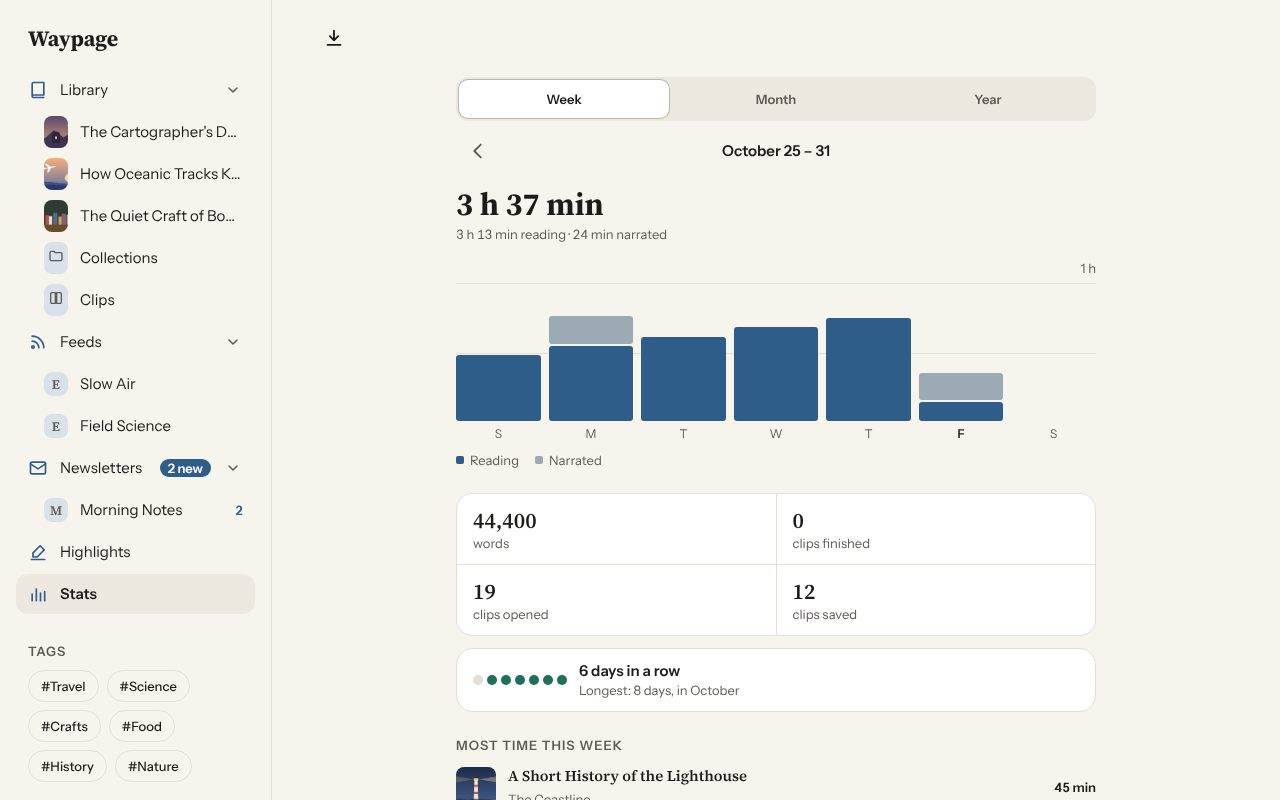
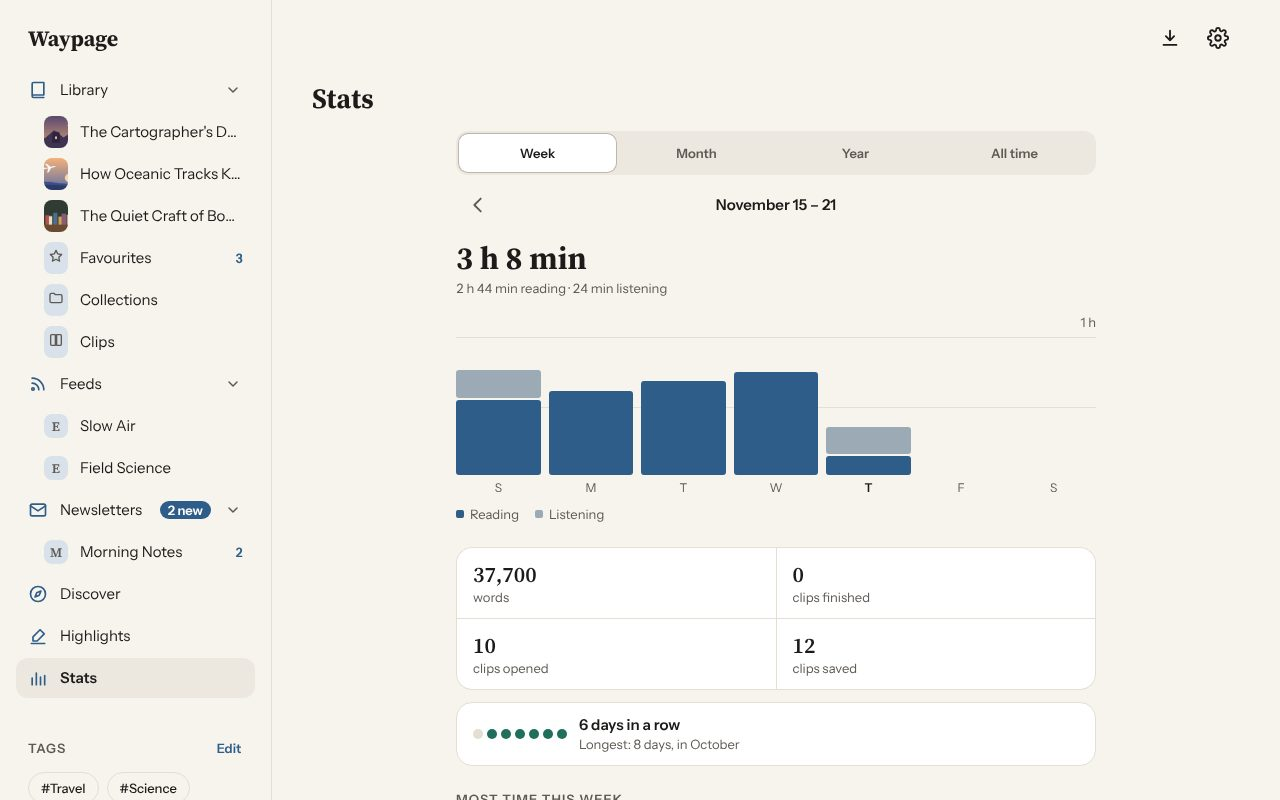
Every screen at every size: fixes from a full audit (#372)
* Every screen at every size: fixes from a full audit

An audit of about 70 screens, sheets and dialogs at 320 and 390 px,
a phone on its side (844x390), a tablet both ways, and 1024, 1280 and
1920 px found these:

- Picking bar at 320 px: the labels were nowrap in equal fifths, so
  Collection ran into Mark read. Buttons now size to their words.
- Draw bar at 320 px: the tools row was 14 px too wide and, being
  centred, lost the pen and Done off both ends. Tighter Done and edge
  under 360 px, and safe center.
- App lock on a phone's side: the centred column was taller than the
  screen, so the title was off the top and couldn't be scrolled to.
  Title, dots and Forgot now sit beside the keys there, and the view
  uses safe center.
- Stats and Anki had no name at the top from 700 px: they were left out
  of the list of places that show their title on a big screen.
- In Hebrew, words written straight into index.html without data-t
  stayed English (picking bar, Back to where you were, Read next,
  Shortcuts, Offline). i18n.test.js now checks the markup.
- The audit also caught "REMOTE_AUDIO is not defined" at start with
  Audiobookshelf on: extension scripts are added as script tags, which
  can run before the shell files still being parsed, so app-abs.js ran
  before app-listen.js. They now load at DOMContentLoaded.

Claude-Session: https://claude.ai/code/session_01CFeKrjQvtrqTncyWyvDABb

* CONTRIBUTING: three rules from #372
[…]

diff --git a/index.html b/index.html
@@ -59,7 +59,7 @@
       <div class="lib-tags" id="libTags" role="toolbar" aria-label="Tags" hidden data-t-attr="aria-label"></div>
     </header>
 
-    <main class="library" id="library" aria-live="polite"><div class="lib-loading wide" data-key="loading" role="status"><span class="spinner" aria-hidden="true"></span>Opening your library</div></main>
+    <main class="library" id="library" aria-live="polite"><div class="lib-loading wide" data-key="loading" role="status"><span class="spinner" aria-hidden="true"></span><span data-t>Opening your library</span></div></main>
     <main class="feeds" id="feeds" hidden></main>
     <main class="feeds newsletters" id="newsletters" hidden></main>
     <main class="highlights" id="highlights" hidden></main>
@@ -120,7 +120,7 @@
       </div>
       <div class="reader-actions">
         <span class="pill" id="offlinePill" hidden>
-          <svg width="14" height="14" viewBox="0 0 24 24" fill="none" stroke="currentColor" stroke-width="2" stroke-linecap="round"><path d="M2 12h20M12 2l3 10-3 10"></path></svg>Offline
+          <svg width="14" height="14" viewBox="0 0 24 24" fill="none" stroke="currentColor" stroke-width="2" stroke-linecap="round"><path d="M2 12h20M12 2l3 10-3 10"></path></svg><span data-t>Offline</span>
         </span>
         <button class="icon-btn aloud-btn" id="readerAloud" type="button" aria-label="Narrate" title="Narrate (S)" aria-pressed="false" hidden data-t-attr="aria-label,title">
           <svg width="22" height="22" viewBox="0 0 24 24" fill="none" stroke="currentColor" stroke-width="2" stroke-linecap="round" stroke-linejoin="round" aria-hidden="true"><path d="M11 5L6 9H3v6h3l5 4V5z"></path><path d="M15.5 8.5a5 5 0 0 1 0 7M18.5 5.5a9 9 0 0 1 0 13"></path></svg>
@@ -186,7 +186,7 @@
     </div>
     <div class="read-foot" id="readFoot">
       <button class="jump-back" id="jumpBack" type="button" hidden>
-        <svg width="18" height="18" viewBox="0 0 24 24" fill="none" stroke="currentColor" stroke-width="2" stroke-linecap="round" stroke-linejoin="round" aria-hidden="true"><path d="M9 14l-4-4 4-4"></path><path d="M5 10h9a5 5 0 0 1 0 10h-3"></path></svg>Back to where you were
+        <svg width="18" height="18" viewBox="0 0 24 24" fill="none" stroke="currentColor" stroke-width="2" stroke-linecap="round" stroke-linejoin="round" aria-hidden="true"><path d="M9 14l-4-4 4-4"></path><path d="M5 10h9a5 5 0 0 1 0 10h-3"></path></svg><span data-t>Back to where you were</span>
       </button>
       <div class="skim-bar" id="skimBar" role="group" aria-label="Skim" hidden data-t-attr="aria-label">
         <div class="skim-head"><span class="skim-part" id="skimPart" dir="auto"></span></div>
@@ -219,10 +219,10 @@
           </button>
         </div>
         <button class="aloud-read-next" id="aloudReadNext" type="button" hidden>
-          <svg width="18" height="18" viewBox="0 0 24 24" fill="none" stroke="currentColor" stroke-width="2" stroke-linecap="round" stroke-linejoin="round" aria-hidden="true"><path d="M11 5L6 9H3v6h3l5 4V5z"></path><path d="M15.5 8.5a5 5 0 0 1 0 7"></path></svg>Read next
+          <svg width="18" height="18" viewBox="0 0 24 24" fill="none" stroke="currentColor" stroke-width="2" stroke-linecap="round" stroke-linejoin="round" aria-hidden="true"><path d="M11 5L6 9H3v6h3l5 4V5z"></path><path d="M15.5 8.5a5 5 0 0 1 0 7"></path></svg><span data-t>Read next</span>
         </button>
         <span class="read-time" id="readLeft" aria-hidden="true"></span>
-        <button class="read-keys" id="readKeys" type="button"><kbd>?</kbd>Shortcuts</button>
+        <button class="read-keys" id="readKeys" type="button"><kbd>?</kbd><span data-t>Shortcuts</span></button>
       </div>
       <div class="read-progress" id="readProgress" aria-hidden="true"><span></span><span class="read-ticks" id="readTicks"></span></div>
     </div>
@@ -362,13 +362,13 @@
     </button>
   </div>
   <div class="select-bar" id="selectBar" role="toolbar" aria-label="Selected clips" hidden data-t-attr="aria-label">
-    <button class="select-act" id="selTags" type="button"><svg width="22" height="22" viewBox="0 0 24 24" fill="none" stroke="currentColor" stroke-width="2" stroke-linecap="round" stroke-linejoin="round" aria-hidden="true"><path d="M3 12V4h8l9 9-8 8z"></path><circle cx="7.5" cy="8.5" r="1.2"></circle></svg>Tags</button>
-    <button class="select-act" id="selFolder" type="button"><svg width="22" height="22" viewBox="0 0 24 24" fill="none" stroke="currentColor" stroke-width="2" stroke-linecap="round" stroke-linejoin="round" aria-hidden="true"><path d="M3 7a2 2 0 0 1 2-2h4l2 2h8a2 2 0 0 1 2 2v8a2 2 0 0 1-2 2H5a2 2 0 0 1-2-2z"></path></svg>Collection</button>
+    <button class="select-act" id="selTags" type="button"><svg width="22" height="22" viewBox="0 0 24 24" fill="none" stroke="currentColor" stroke-width="2" stroke-linecap="round" stroke-linejoin="round" aria-hidden="true"><path d="M3 12V4h8l9 9-8 8z"></path><circle cx="7.5" cy="8.5" r="1.2"></circle></svg><span data-t>Tags</span></button>
+    <button class="select-act" id="selFolder" type="button"><svg width="22" height="22" viewBox="0 0 24 24" fill="none" stroke="currentColor" stroke-width="2" stroke-linecap="round" stroke-linejoin="round" aria-hidden="true"><path d="M3 7a2 2 0 0 1 2-2h4l2 2h8a2 2 0 0 1 2 2v8a2 2 0 0 1-2 2H5a2 2 0 0 1-2-2z"></path></svg><span data-t>Collection</span></button>
     <button class="select-act" id="selRead" type="button"><svg width="22" height="22" viewBox="0 0 24 24" fill="none" stroke="currentColor" stroke-width="2" stroke-linecap="round" stroke-linejoin="round" aria-hidden="true"><path d="M5 12.5l4.5 4.5L19 7.5"></path></svg><span id="selReadLabel" data-t>Mark read</span></button>
-    <button class="select-act" id="selEdit" type="button"><svg width="22" height="22" viewBox="0 0 24 24" fill="none" stroke="currentColor" stroke-width="2" stroke-linecap="round" stroke-linejoin="round" aria-hidden="true"><path d="M4 20h4L19 9a2.8 2.8 0 0 0-4-4L4 16z"></path><path d="M13.5 6.5l4 4"></path></svg>Edit</button>
-    <button class="select-act post-only" id="selOpen" type="button"><svg width="22" height="22" viewBox="0 0 24 24" fill="none" stroke="currentColor" stroke-width="2" stroke-linecap="round" stroke-linejoin="round" aria-hidden="true"><path d="M14 4h6v6M20 4l-9 9M18 14v5a1 1 0 0 1-1 1H5a1 1 0 0 1-1-1V7a1 1 0 0 1 1-1h5"></path></svg>Open</button>
-    <button class="select-act post-only" id="selSave" type="button"><svg width="22" height="22" viewBox="0 0 24 24" fill="none" stroke="currentColor" stroke-width="2" stroke-linecap="round" stroke-linejoin="round" aria-hidden="true"><path d="M12 5v14M5 12h14"></path></svg>Save</button>
-    <button class="select-act danger" id="selDelete" type="button"><svg width="22" height="22" viewBox="0 0 24 24" fill="none" stroke="currentColor" stroke-width="2" stroke-linecap="round" stroke-linejoin="round" aria-hidden="true"><path d="M4 7h16M10 11v6M14 11v6M6 7l1 13h10l1-13M9 7V4h6v3"></path></svg>Delete</button>
+    <button class="select-act" id="selEdit" type="button"><svg width="22" height="22" viewBox="0 0 24 24" fill="none" stroke="currentColor" stroke-width="2" stroke-linecap="round" stroke-linejoin="round" aria-hidden="true"><path d="M4 20h4L19 9a2.8 2.8 0 0 0-4-4L4 16z"></path><path d="M13.5 6.5l4 4"></path></svg><span data-t>Edit</span></button>
+    <button class="select-act post-only" id="selOpen" type="button"><svg width="22" height="22" viewBox="0 0 24 24" fill="none" stroke="currentColor" stroke-width="2" stroke-linecap="round" stroke-linejoin="round" aria-hidden="true"><path d="M14 4h6v6M20 4l-9 9M18 14v5a1 1 0 0 1-1 1H5a1 1 0 0 1-1-1V7a1 1 0 0 1 1-1h5"></path></svg><span data-t>Open</span></button>
+    <button class="select-act post-only" id="selSave" type="button"><svg width="22" height="22" viewBox="0 0 24 24" fill="none" stroke="currentColor" stroke-width="2" stroke-linecap="round" stroke-linejoin="round" aria-hidden="true"><path d="M12 5v14M5 12h14"></path></svg><span data-t>Save</span></button>
+    <button class="select-act danger" id="selDelete" type="button"><svg width="22" height="22" viewBox="0 0 24 24" fill="none" stroke="currentColor" stroke-width="2" stroke-linecap="round" stroke-linejoin="round" aria-hidden="true"><path d="M4 7h16M10 11v6M14 11v6M6 7l1 13h10l1-13M9 7V4h6v3"></path></svg><span data-t>Delete</span></button>
   </div>
   <div class="screen-catch" id="screenCatch" hidden></div>
   <p class="pane-note" id="paneNote" data-t>Pick a post to read it here</p>

diff --git a/src/styles.css b/src/styles.css
@@ -1670,7 +1670,8 @@ span.update-text { cursor: default; }
   color: var(--accent); font-weight: 600; cursor: pointer;
 }
 .select-act {
-  flex: 1; min-width: 0; max-width: 120px; min-height: 56px; white-space: nowrap;
+  flex: 1 1 auto; min-width: 0; max-width: 120px; min-height: 56px; padding: 0 2px;
+  text-align: center; hyphens: auto;
   display: flex; flex-direction: column; align-items: center; justify-content: center; gap: 2px;
   border: 0; border-radius: var(--r-md); background: transparent; color: var(--accent);
   font: 500 var(--fs-meta)/var(--lh-meta) var(--sans); cursor: pointer;
@@ -2670,8 +2671,9 @@ button.side-version { align-self: flex-start; min-height: 44px; padding-bottom: 
   .lib-head .meta { margin: 0; flex: 1; min-width: 0; }
   .lib-head .lib-tools { margin: 0 calc(-1 * var(--s-2)) 0 0; align-self: center; gap: var(--s-4); }
   .top { padding-bottom: var(--s-3); }
-  :is([data-place="feeds"], [data-place="newsletters"], [data-place="highlights"], [data-place="discover"], [data-place="calibre"], [data-place="catalogs"], [data-place="audiobookshelf"], [data-place="webdav"]) .top { display: block; }
-  :is([data-place="feeds"], [data-place="newsletters"], [data-place="highlights"], [data-place="discover"], [data-place="calibre"], [data-place="catalogs"], [data-place="audiobookshelf"], [data-place="webdav"]) :is(.top > :not(.lib-head), .lib-head > :not(.screen-title)) { display: none; }
+  /* Stats and Anki were left out, so a big screen showed them with no name. */
+  :is([data-place="feeds"], [data-place="newsletters"], [data-place="highlights"], [data-place="reading"], [data-place="discover"], [data-place="calibre"], [data-place="catalogs"], [data-place="audiobookshelf"], [data-place="webdav"], [data-place="anki"]) .top { display: block; }
+  :is([data-place="feeds"], [data-place="newsletters"], [data-place="highlights"], [data-place="reading"], [data-place="discover"], [data-place="calibre"], [data-place="catalogs"], [data-place="audiobookshelf"], [data-place="webdav"], [data-place="anki"]) :is(.top > :not(.lib-head), .lib-head > :not(.screen-title)) { display: none; }
 
   /* Two columns of clips; Continue reading, collections and section
      heads take the whole width. */
@@ -3091,6 +3093,8 @@ html.locked body > :not(.lock-view):not(script) { visibility: hidden !important;
   background: var(--bg); color: var(--ink); overflow-y: auto;
 }
 .lock-view[hidden] { display: none; }
+/* safe: taller than the screen, it scrolls from its top instead of losing it. */
+.lock-view { align-items: safe center; }
 .lock-box { display: flex; flex-direction: column; align-items: center; gap: var(--s-3); width: 100%; max-width: 20rem; text-align: center; }
 .lock-box > div { display: flex; flex-direction: column; align-items: center; gap: var(--s-3); width: 100%; }
 .lock-box > div[hidden] { display: none; }
@@ -3121,6 +3125,18 @@ html.locked body > :not(.lock-view):not(script) { visibility: hidden !important;
 .lock-foot { display: flex; justify-content: center; gap: var(--s-2); flex-wrap: wrap; }
 .lock-foot .btn-quiet, .lock-erase .btn-quiet { border-color: transparent; color: var(--accent); }
 .lock-erase-go { background: var(--warn); border-color: var(--warn); color: var(--accent-ink); }
+/* A phone on its side: the title, dots and Forgot beside the keys, which
+   didn't fit under them (the title was off the top). */
+@media (max-height: 500px) and (orientation: landscape) {
+  .lock-box { display: grid; max-width: 40rem; grid-template-columns: minmax(0, 1fr) auto; grid-template-rows: 1fr repeat(5, auto) 1fr; column-gap: var(--s-7); justify-items: center; }
+  .lock-box > #lockPad { display: contents; }
+  .lock-title { grid-area: 2 / 1; }
+  .lock-dots { grid-area: 3 / 1; }
+  .lock-note { grid-area: 4 / 1; }
+  .lock-next { grid-area: 5 / 1; }
+  .lock-foot { grid-area: 6 / 1; }
+  .lock-keys { grid-area: 1 / 2 / -1; margin-top: 0; }
+}
 @media (max-height: 640px) { .lock-keys { grid-template-columns: repeat(3, 60px); gap: var(--s-3) var(--s-4); } .lock-key, .lock-key-gap { width: 60px; height: 60px; } .lock-icon { display: none; } }
 @media (prefers-reduced-motion: reduce) { .lock-dots.shake { animation: none; } .lock-key, .lock-dot { transition: none; } }
 .lock-view:focus { outline: none; }
@@ -3198,6 +3214,14 @@ html.locked body > :not(.lock-view):not(script) { visibility: hidden !important;
 /* Select, Add and your own colours on the Draw bar (app-ink.js). */
 .ink-bar button { flex: 0 1 var(--tap); min-width: 36px; }
 .ink-bar .ink-done { flex: 0 0 auto; padding: 0 var(--s-3); }
+/* At 320 px the tools row was 14 px too wide and lost the pen and Done off
+   its two ends; safe keeps the start in view if a language makes it longer. */
+.ink-row { justify-content: safe center; }
+@media (max-width: 359px) {
+  .ink-bar { max-width: calc(100vw - 2 * var(--s-2)); }
+  .ink-bar .ink-gap { min-width: 0; }
+  .ink-bar .ink-done { padding: 0 var(--s-1); }
+}
 .ink-dot[data-c=""] { background: var(--pen-ink); }
 .ink-pop-styles button .ink-pop-name { text-align: start; }
 .ink-color {

diff --git a/test/ui.test.js b/test/ui.test.js
@@ -6246,6 +6246,40 @@ c("bk1", { at: 0.01 })]);
       await ctx.close();
     });
 
+    // Every screen at every size (the 320 px phone, a phone on its side, a
+    // computer): each of these was cut off or missing before.
+    await test("the picking bar, Draw bar, app lock and Stats fit at 320 px, on a phone's side and at 1280 px", async () => {
+      const q = await page(browser, 320);
+      await q.setViewportSize({ width: 320, height: 568 });
+      await q.fill("#saveUrl", ARTICLE);
+      await q.press("#saveUrl", "Enter");
+      await until(q, () => state.pages.length === 1 && !state.saving.length);
+      await q.evaluate(() => startSelect([state.pages[0].id]));
+      const acts = await q.evaluate(() => [...document.querySelectorAll("#selectBar .select-act")].filter((b) => b.offsetWidth).map((b) => {
+        const r = b.getBoundingClientRect(), w = b.querySelector("span").getBoundingClientRect();
+        return { l: w.left, r: w.right, fits: w.left >= r.left - 1 && w.right <= r.right + 1, text: b.textContent.trim() };
+      }));
+      for (let i = 1; i < acts.length; i++) assert.ok(acts[i].l >= acts[i - 1].r, acts[i - 1].text + " runs into " + acts[i].text);
+      assert.ok(acts.every((a) => a.fits), "a label is wider than its button");
+      await q.evaluate(() => endSelect());
+      await q.evaluate(async () => { const meta = await window.Waypage.notes.create("lines"); state.pages.unshift(meta); await window.Waypage.store.writeIndex(state.pages); openPage(meta.id); });
+      await q.locator(".ink-bar:not([hidden])").waitFor();
+      const rows = await q.evaluate(() => [...document.querySelectorAll(".ink-bar .ink-row")].map((r) => r.scrollWidth - r.clientWidth));
+      assert.ok(rows.every((x) => x <= 0), "the Draw bar is cut off by " + rows.join(", ") + " px");
+      await q.setViewportSize({ width: 844, height: 390 });
+      await q.evaluate(() => { lockShow("unlock"); });
+      await q.locator("#lockView:not([hidden])").waitFor();
+      const lock = await q.evaluate(() => { const r = (id) => document.getElementById(id).getBoundingClientRect(); return { title: r("lockTitle").top, keys: r("lockKeys").bottom, forgot: r("lockForgot").bottom, h: innerHeight }; });
+      assert.ok(lock.title >= 0 && lock.keys <= lock.h && lock.forgot <= lock.h, "the lock doesn't fit on a phone's side: " + JSON.stringify(lock));
+      await q.goto(ROOT);
+      await q.setViewportSize({ width: 1280, height: 800 });
+      await q.waitForSelector("#saveUrl");
+      await q.evaluate(() => goPlace("reading"));
+      await until(q, () => { const h = document.getElementById("placeTitle"); return h.textContent === "Stats" && h.getBoundingClientRect().height > 0; });
+      assert.deepStrictEqual(q.errors, [], q.errors.join(" | "));
+      await q.context().close();
+    });
+
     for (const width of [390, 1280]) {
       for (const theme of THEMES) {
         await test("opens at " + width + " px in " + theme + " with no errors", async () => {

diff --git a/test/i18n.test.js b/test/i18n.test.js
@@ -13,4 +13,17 @@ const r = i18n.check(i18n.keys(files), i18n.table(path.join(root, "src/lang/he.j
 assert.deepStrictEqual(r.missing, [], "Hebrew missing for: " + r.missing.join(" | "));
 assert.deepStrictEqual(r.stale, [], "Hebrew for text that's gone: " + r.stale.join(" | "));
 assert.deepStrictEqual(r.broken, [], "Hebrew that doesn't match its English: " + JSON.stringify(r.broken));
+// Words written straight into index.html's markup need data-t on them or on
+// a wrapper, or Hebrew shows them in English (the picking bar's Tags,
+// Collection, Edit and Delete did).
+const bare = [];
+const html = fs.readFileSync(path.join(root, "index.html"), "utf8").replace(/<!doctype[^>]*>|<script[\s\S]*?<\/script>|<style[\s\S]*?<\/style>|<!--[\s\S]*?-->|<svg[\s\S]*?<\/svg>/gi, "");
+const open = [], VOID = new Set(["img", "input", "br", "meta", "link", "hr", "source"]);
+for (const m of html.matchAll(/<(\/?)([a-zA-Z0-9-]+)([^>]*?)(\/?)>|([^<]+)/g)) {
+  if (m[5] !== undefined) {
+    if (/[A-Za-z]{2}/.test(m[5]) && !open.some((x) => /\sdata-t(?=[\s>=]|$)/.test(x.attrs) || x.name === "title")) bare.push(m[5].trim());
+  } else if (m[1]) { while (open.length && open.pop().name !== m[2].toLowerCase()); }
+  else if (!m[4] && !VOID.has(m[2].toLowerCase())) open.push({ name: m[2].toLowerCase(), attrs: m[3] });
+}
+assert.deepStrictEqual(bare, [], "Words in index.html without data-t: " + bare.join(" | "));
 console.log("i18n: ok");

diff --git a/test/abs.test.js b/test/abs.test.js
@@ -109,6 +109,21 @@ const signIn = async (p) => {
   const server = await startServer();
   const browser = await pw.chromium.launch();
   try {
+    await test("with the extension on, the app starts with no error and streaming is ready", async () => {
+      const ctx = await browser.newContext({ viewport: { width: 390, height: 844 }, isMobile: true, hasTouch: true, serviceWorkers: "block" });
+      await ctx.addInitScript(() => localStorage.setItem("waypage.extensions", JSON.stringify({ audiobookshelf: { on: true } })));
+      const p = await ctx.newPage();
+      const errors = [];
+      p.on("pageerror", (e) => errors.push(e.message));
+      for (let i = 0; i < 3; i++) {
+        await p.goto(ROOT);
+        await p.waitForFunction(() => window.Waypage && window.Waypage.abs);
+      }
+      assert.deepStrictEqual(errors, []);
+      assert.ok(await p.evaluate(() => !!REMOTE_AUDIO.audiobookshelf), "app-abs.js gave app-listen.js its stream");
+      await ctx.close();
+    });
+
     await test("signing in keeps the tokens on this device and never the password", async () => {
       const { ctx, p } = await phone(browser);
       await signIn(p);

diff --git a/src/app-extensions.js b/src/app-extensions.js
@@ -98,8 +98,12 @@ C.ext.progress(() => {
 });
 
 // Those turned on have their code loaded as the app starts, so their
-// buttons are there when a clip opens. Off, none of it is fetched.
-for (const x of C.ext.list()) if (C.ext.on(x.id)) C.ext.load(x.id).catch((e) => console.error(e));
+// buttons are there when a clip opens. Off, none of it is fetched. Only once
+// every shell file has run: a script added now can run before the ones after
+// this file, and app-abs.js needs app-listen.js's REMOTE_AUDIO.
+function loadExtensionsOn() { for (const x of C.ext.list()) if (C.ext.on(x.id)) C.ext.load(x.id).catch((e) => console.error(e)); }
+if (document.readyState === "loading") document.addEventListener("DOMContentLoaded", loadExtensionsOn, { once: true });
+else loadExtensionsOn();
 
 // The Anki place: its code is loaded first, so it draws once it's here.
 async function renderAnki() {

diff --git a/src/lang/he.js b/src/lang/he.js
@@ -432,6 +432,9 @@ Keel.i18n.strings("he", {
   "Automatic backups run on Wi-Fi while Waypage is open. ": "גיבויים אוטומטיים רצים ב-Wi-Fi כש-Waypage פתוחה. ",
   "Automatic backups run on Wi-Fi, even with Waypage closed, when Android finds a good moment. ": "גיבויים אוטומטיים רצים ב-Wi-Fi, גם כש-Waypage סגורה, כשאנדרואיד מוצא רגע מתאים. ",
   "Back": "חזרה",
+  "Back to where you were": "חזרה למקום שבו היית",
+  "Offline": "בלי חיבור",
+  "Shortcuts": "קיצורים",
   "Back {back} seconds": "{back} שניות אחורה",
   "Back 15 seconds": "15 שניות אחורה",
   "Back a little after a pause": "קצת אחורה אחרי הפסקה",

diff --git a/CONTRIBUTING.md b/CONTRIBUTING.md
@@ -208,6 +208,7 @@ listed here adds its line in the same pull request.
 - **Something the user stopped says "Stopped.", never "Couldn't …".** (#346)
 - **A login, token or cookie goes only to the origin it was given for** (or the same host moved up to https, never down), whatever link, cover, page or redirect the server's answer points to. (#347)
 - **Before writing a guard or helper, look for the one a sibling area already has.** WebDAV had the login guard Catalogs lacked. (#347)
+- **Code that must run after every shell file waits for `DOMContentLoaded`;** a `<script>` added while the page is still parsing can run first. (#372: Audiobookshelf before `REMOTE_AUDIO`)
 
 **UI**
 
@@ -215,6 +216,8 @@ listed here adds its line in the same pull request.
 - **A looping animation gets its own duration in the reduced-motion block and an Animations off rule,** in the same change. `docs.test.js` checks it. (#348: spinners flickered)
 - **A flex child that holds text or a control gets `min-width: 0`; a title that can hold one long word gets `hyphens: auto` or `overflow-wrap: anywhere`.** (#348)
 - **Every changed screen is checked at 320 px, 390 px and ~1280 px.** 390 px alone hid three breaks. (#348)
+- **A centred row or box that can outgrow its screen uses `safe center`,** and a check on its side (844 x 390) too. (#372: the Draw bar at 320 px, the app lock on a phone's side)
+- **A word written into `index.html` has `data-t` on it or a wrapper** (`<span data-t>` beside an icon). (#372: the picking bar stayed English in Hebrew)
 
 ## Keeping the notes files right
 

diff --git a/ARCHITECTURE.md b/ARCHITECTURE.md
@@ -1267,6 +1267,9 @@ area.
 - **iOS Translation needs a SwiftUI view:** a `TranslationSession` only
   comes from `translationTask`, so TranslatePlugin keeps a one-point
   SwiftUI view behind the WebView and runs one job at a time in it.
+- An extension's scripts are added as `<script>` tags, which can run before the shell files still being parsed after `app-extensions.js`. So the ones turned on load only at `DOMContentLoaded`: `app-abs.js` set `REMOTE_AUDIO.audiobookshelf` before `app-listen.js` had made `REMOTE_AUDIO`, threw, and streaming had nothing to play through.
+- A row or box that is centred (`justify-content` or `align-items: center`) and can be wider or taller than its screen loses both ends, and the start can't be scrolled to. Use `safe center` (the Draw bar at 320 px, the app lock with a phone on its side). A column that wraps (`flex-wrap: wrap`) is as wide as its widest row, so a panel built from `.folder-actions` needs `nowrap` to stay inside a phone.
+- Words written into `index.html` need `data-t` on them or a wrapper, or they stay English in Hebrew; a button with an icon wraps its word in `<span data-t>`. `i18n.test.js` checks it.
 
 ## The docs
 

diff --git a/changes/fix-every-screen-size.md b/changes/fix-every-screen-size.md
@@ -1,0 +1,6 @@
+### Fixed
+- On a small phone (320 px), the picking bar's Collection and Mark read ran into each other, and the Draw bar cut off the pen and Done at its ends.
+- With the phone on its side, the app lock's title and Forgot passcode were off the screen. They now sit beside the keys.
+- On a tablet or computer, Stats and Anki had no name at the top of the screen.
+- In Hebrew, the picking bar's Tags, Collection, Edit and Delete, the reader's Back to where you were, Read next and Shortcuts, and the Offline pill stayed in English.
+- With Audiobookshelf turned on, the app could start with it half loaded, so a book from your server might not play until the app was restarted.
